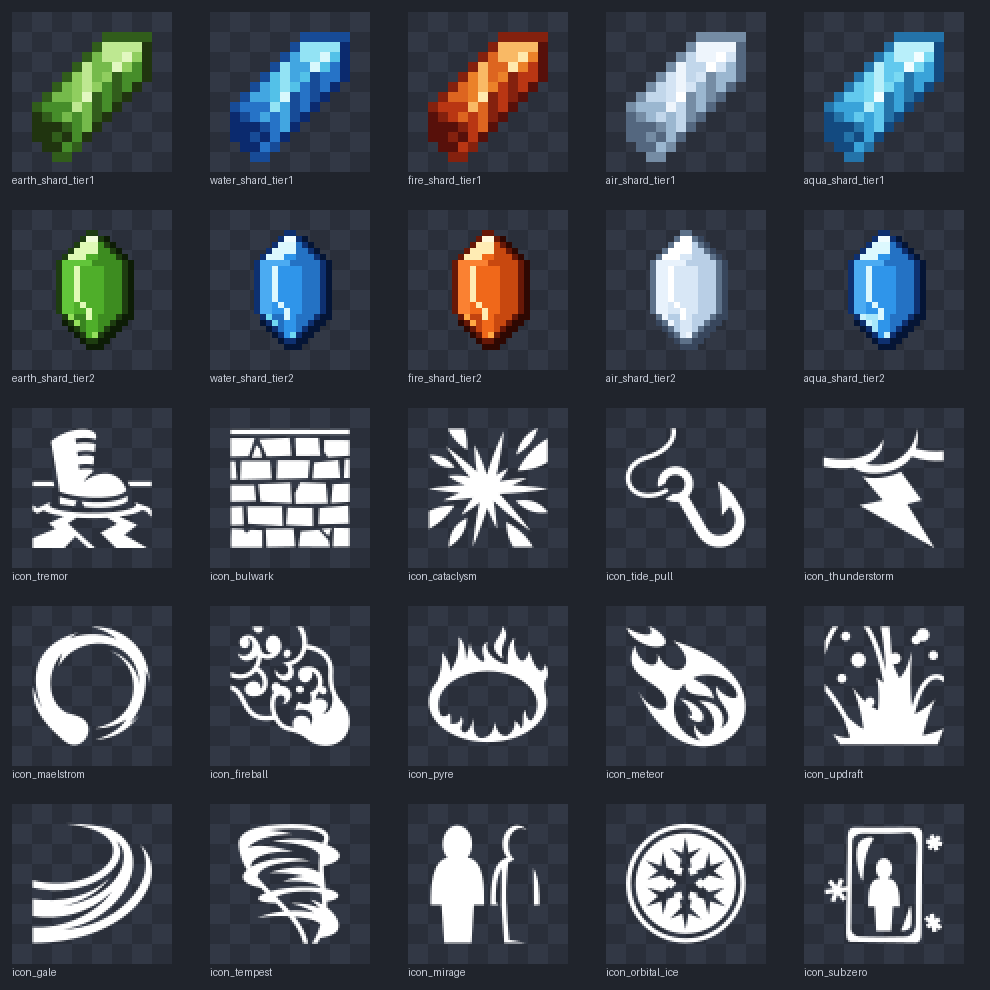
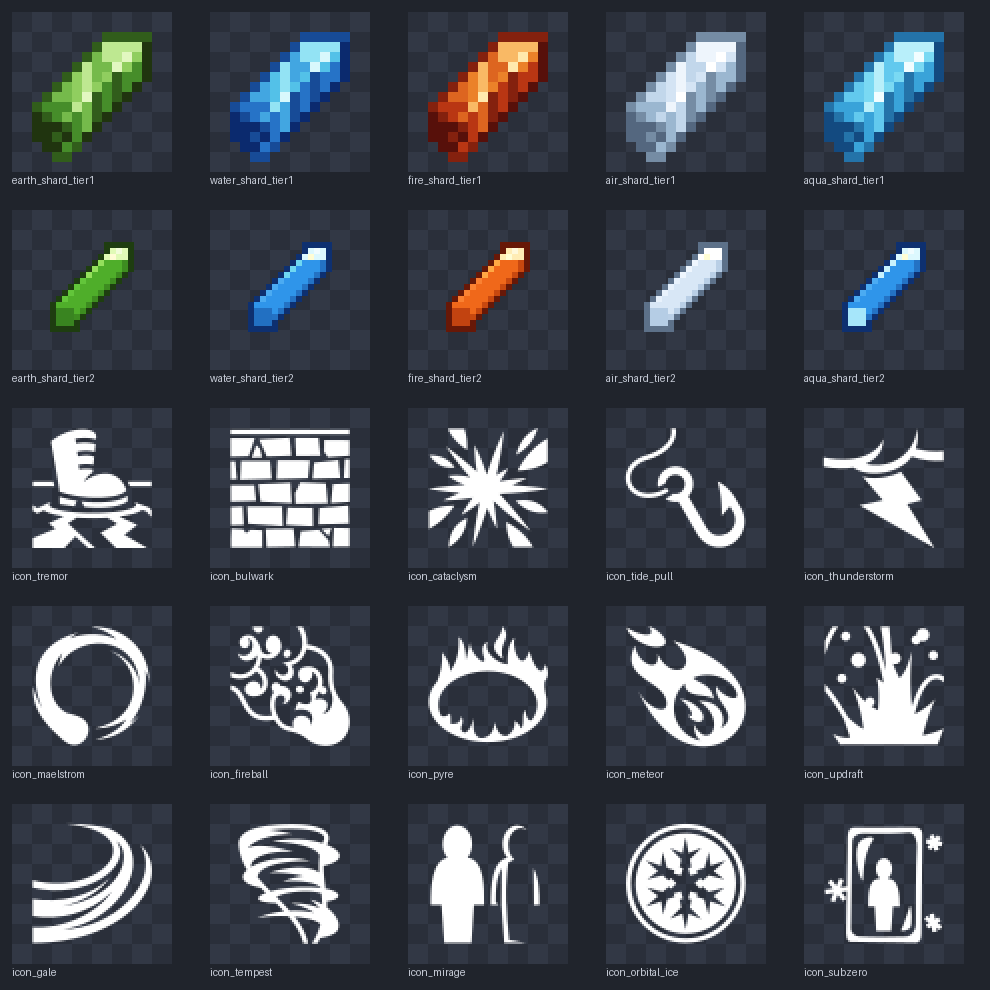
Turn the gem like the vanilla shard, shade it the same way
The tier 2 gem now sits on the vanilla amethyst shard's diagonal (tip
up-right) at the shard's slim proportions, and borrows its shading
language: full dark outline with no drop shadow, a bright cut face at
the top end carrying the vanilla-style white + cream glint pixels, a
thin lit line inside the upper-left edge with a short highlight streak
trailing off the face, flat body, a darker band along the lower-right,
and a dim bottom end - still light blue on Aqua. Centred on the canvas.

Claude-Session: https://claude.ai/code/session_01HYH4gL5ioHXoyQ3myV4UkH

diff --git a/resourcepack/gen_textures.py b/resourcepack/gen_textures.py
@@ -109,87 +109,76 @@ GEM_REFERENCE = {"D": "#1c0c33", "Od": "#371a63", "Ol": "#9f52f0", "B": "#8a30e8
 
 
 def draw_gem(pal):
-    """24x24 upright cut gem: pointy tip up, hard-edged facets, centered.
+    """24x24 cut gem, turned and shaded like the vanilla amethyst shard.
 
-    Silhouette: a 2px point at the top, stepped tapers out to straight
-    vertical sides, tapering back to a 2px point at the bottom. The
-    interior is flat facet regions with crisp boundaries: a pale crown
-    under the tip with its right column in shade, a split girdle seam,
-    a lit left band and shaded right band down the pavilion, a vertical
-    highlight that kinks toward the bottom tip, and a dim lower-left
-    panel. A darkest drop edge wraps the right and bottom for thickness.
+    Same diagonal as the vanilla shard (tip up-right): flat top cap,
+    short vertical right side, staircase down the lower-right, flat
+    bottom cap, vertical left side, staircase back up. Shading follows
+    the vanilla texture's language: a full dark outline (no drop
+    shadow), a bright top cut face with sparkle pixels, a thin lit line
+    inside the upper-left edge with a short highlight streak trailing
+    off the face, a flat body, a darker band along the lower-right, and
+    a dim region at the bottom end (light blue on Aqua).
     """
     pal = {k: c(v) for k, v in pal.items()}
     N = 24
     img = Image.new("RGBA", (N, N), (0, 0, 0, 0))
     px = img.load()
 
-    tip_top = [(11, 1), (12, 1)]
-    taper_ul = [(10, 2), (9, 3), (8, 4), (7, 5)]
-    side_l = [(6, y) for y in range(6, 15)]
-    taper_ll = [(7, 15), (8, 16), (9, 17), (10, 18)]
-    tip_bot = [(11, 19), (12, 19)]
-    taper_lr = [(13, 18), (14, 17), (15, 16), (16, 15)]
-    side_r = [(17, y) for y in range(6, 15)]
-    taper_ur = [(16, 5), (15, 4), (14, 3), (13, 2)]
-    outline = set(tip_top + taper_ul + side_l + taper_ll
-                  + tip_bot + taper_lr + side_r + taper_ur)
+    top = [(x, 1) for x in range(14, 19)]
+    right = [(18, y) for y in range(2, 6)]
+    lr_stairs = [(17, 6), (16, 7), (15, 8), (14, 9), (13, 10),
+                 (12, 11), (11, 12), (10, 13), (9, 14)]
+    bottom = [(x, 15) for x in range(5, 10)]
+    left = [(5, y) for y in range(11, 15)]
+    ul_stairs = [(6, 10), (7, 9), (8, 8), (9, 7), (10, 6),
+                 (11, 5), (12, 4), (13, 3), (14, 2)]
+    outline = set(top + right + lr_stairs + bottom + left + ul_stairs)
 
-    interior, queue = set(), [(11, 10)]
+    interior, queue = set(), [(14, 4)]
     while queue:
         (x, y) = queue.pop()
         if (x, y) in interior or (x, y) in outline or not (0 <= x < N and 0 <= y < N):
             continue
         interior.add((x, y))
         queue += [(x + 1, y), (x - 1, y), (x, y + 1), (x, y - 1)]
-    shape = outline | interior
 
-    drop = set()
-    for (x, y) in side_r + taper_ur + taper_lr + tip_bot + taper_ll:
-        for (dx, dy) in ((1, 0), (0, 1), (1, 1)):
-            if (x + dx, y + dy) not in shape:
-                drop.add((x + dx, y + dy))
+    # bright top cut face with the vanilla-style sparkle pixels
+    face = {(x, y) for (x, y) in interior if y <= 3}
+    sparkle = {(16, 2)}
+    cream = {(15, 3)}
+    # thin lit line inside the upper-left staircase, and a short
+    # highlight streak trailing down off the face like the vanilla shard
+    lit = {(x + 1, y) for (x, y) in ul_stairs} - face
+    streak = {(13, 4), (12, 5), (11, 6)}
+    # darker band hugging the lower-right staircase and right wall
+    shade = ({(x - 1, y) for (x, y) in lr_stairs}
+             | {(17, y) for y in range(2, 6)}) & interior
+    # dim bottom end (Aqua turns this light blue)
+    dim = {(x, y) for (x, y) in interior if y >= 12 and x <= 8}
 
-    hot = {(11, 2), (12, 2)}
-    notch = {(11, 5), (12, 5)}
-    sweep = ({(9, y) for y in range(7, 13)} | {(10, 13), (11, 14), (11, 15)})
-    accents = {(8, 15), (9, 16), (12, 18)}
-
-    for (x, y) in drop:
-        if 0 <= x < N and 0 <= y < N:
-            px[x, y] = pal["D"]
     for (x, y) in outline:
         px[x, y] = pal["Od"]
     for (x, y) in interior:
-        if (x, y) in hot:
+        if (x, y) in sparkle:
             px[x, y] = pal["W"]
-        elif (x, y) in sweep:
+        elif (x, y) in cream:
+            px[x, y] = (255, 253, 213, 255)  # the vanilla shard's warm glint
+        elif (x, y) in face:
             px[x, y] = pal["H"]
-        elif (x, y) in accents:
+        elif (x, y) in streak:
             px[x, y] = pal["L"]
-        elif (x, y) in notch:
+        elif (x, y) in lit:
+            px[x, y] = pal["Ol"]
+        elif (x, y) in dim:
+            px[x, y] = pal["M"]
+        elif (x, y) in shade:
+            px[x, y] = pal["S"]
+        else:
             px[x, y] = pal["B"]
-        elif 3 <= y <= 5:              # crown: pale, right column in shade
-            px[x, y] = pal["H"] if x <= 12 else pal["S"]
-        elif y == 6:                   # girdle seam, split lit/shade
-            px[x, y] = pal["Ol"] if x <= 11 else pal["S"]
-        elif 7 <= y <= 14:             # pavilion bands
-            if x <= 8:
-                px[x, y] = pal["Ol"]
-            elif x >= 14:
-                px[x, y] = pal["S"]
-            else:
-                px[x, y] = pal["B"]
-        else:                          # bottom: dim left, shade right
-            if x <= 10:
-                px[x, y] = pal["M"]
-            elif x >= 13:
-                px[x, y] = pal["S"]
-            else:
-                px[x, y] = pal["B"]
-    # content spans y 1..20 — drop one row so it sits dead centre
+    # content spans x 5..18, y 1..15 - recentre on the canvas
     centered = Image.new("RGBA", (N, N), (0, 0, 0, 0))
-    centered.alpha_composite(img, (0, 1))
+    centered.alpha_composite(img, (0, 3))
     return centered
 
 

diff --git a/DESIGN.md b/DESIGN.md
@@ -332,12 +332,12 @@ Progress is tracked persistently and shown in `/info`, with chat notifications a
 | | Tier 1 | Tier 2 |
 |---|---|---|
 | **Name** | Earth Shard | Earth Shard *(unchanged)* |
-| **Shape** | The vanilla amethyst shard texture, recoloured | Upright cut gem, pointy tip up, 24×24 |
+| **Shape** | The vanilla amethyst shard texture, recoloured | Cut gem, turned like the shard, 24×24 |
 | **Colour** | Flat element colour, vanilla-style facet shading — no gradients | Same colour, with a pale cut face and highlight sweep |
 
 **Tier 1** is literally the vanilla amethyst shard texture run through a per-element recolour (a luminance gradient map: each flat vanilla colour maps to one flat element colour). Green for Earth, ocean blue for Water, ember orange for Fire, pale white for Air. Nothing is redrawn, so it always reads as "a shard" at a glance.
 
-**Tier 2** is an **upright cut gem** in the reference art's shading language: pointy tip up, straight vertical sides, hard-edged facets — a near-white glint at the tip, a pale crown with its right column in shade, a split girdle seam, a lit left band and shaded right band down the pavilion, a vertical highlight that kinks toward the bottom point, a dim lower-left panel, and a dark drop edge wrapping the right and bottom. Authored at 24×24, centred in the slot. Same flat-colour rule: one hue per element, discrete facet tones, no gradients.
+**Tier 2** is a **cut gem turned like the vanilla shard** — the same diagonal, tip up-right — and shaded in the vanilla texture's own language: full dark outline (no drop shadow), a bright cut face at the top end with the vanilla-style white + cream glint pixels, a thin lit line inside the upper-left edge with a short highlight streak trailing off the face, a flat body with a darker band along the lower-right, and a dim bottom end (light blue on Aqua). Authored at 24×24, centred in the slot. Same flat-colour rule: one hue per element, discrete tones, no gradients.
 
 > Provenance: Tier 1 derives from the game's own texture, which is standard resource-pack practice. The gem is transcribed from our own reference art, and the ability icons are CC BY 3.0 glyphs from game-icons.net (credited in `resourcepack/README.md`) — nothing is lifted from another plugin.
 
